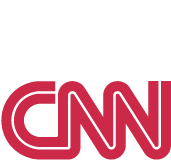
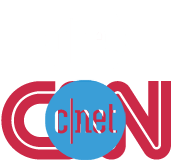
updated all sprites and links on press page

Changed region(s): [[0.2632, 0.5, 0.7602, 1.0]]

diff --git a/css/screen.css b/css/screen.css
@@ -1802,91 +1802,93 @@ img.progicons {
   text-align: left;
 }
 
+.press .cnn,
+.press .atlanticcities,
+.press .latimes,
+.press .usatoday,
+.press .pbs,
+.press .time,
+.press .cnet,
+.press .details,
+.press .globaljournal,
+.press .fastco {
+  height: 76px;
+  margin-bottom: 40px;
+}
+
+.press .cnn:hover,
+.press .atlanticcities:hover,
+.press .latimes:hover,
+.press .usatoday:hover,
+.press .pbs:hover,
+.press .time:hover,
+.press .cnet:hover,
+.press .details:hover,
+.press .globaljournal:hover,
+.press .fastco:hover  {
+  background-position: 0 -76px;
+}
+
 .press .cnn {
   background-image:url('../img/cnn.png');
   background-size: 86px;
   width: 86px;
 }
 
-.press .mashable {
-  background-image:url('../img/mashable.png');
-  background-size: 123px;
-  width: 123px;
+.press .atlanticcities{
+  background-image:url('../img/atlanticcities.png');
+  background-size: 183px;
+  width: 183px;
 }
 
-.press .motherjones {
-  background-image:url('../img/motherjones.png');
-  background-size: 139px;
-  width: 139px;
+.press .latimes {
+  background-image:url('../img/losangelestimes.png');
+  background-size: 640px;
+  width: 640px;
 }
 
-.press .npr {
-  background-image:url('../img/npr_logo_line.png');
-  background-size: 110px;
-  width: 110px;
-  margin-top: 28px;
+.press .usatoday {
+  background-image:url('../img/usatoday.png');
+  background-size: 162.5px;
+  width: 162.5px;
 }
 
-.press .wsj {
-  background-image:url('../img/wsj.png');
-  background-size: 226.5px;
-  width: 226.5px;
+.press .pbs {
+  background-image:url('../img/pbs.png');
+  background-size: 197px;
+  width: 197px;
 }
 
-.press .msnbc {
-  background-image:url('../img/msnbc.png');
-  background-size: 73px;
-  width: 73px;
-  height: 50px;
+.press .time {
+  background-image:url('../img/time.png');
+  background-size: 276px;
+  width: 276px;
 }
 
-.press .csm {
-  background-image:url('../img/csm.png');
-  background-size: 115px;
-  width: 115px;
+.press .cnet {
+  background-image:url('../img/cnet.png');
+  background-size: 103px;
+  width: 103px;
 }
 
-.press .techcrunch {
-  background-image:url('../img/techcrunch.png');
-  background-size: 165px;
-  width: 165px;
+.press .details {
+  background-image:url('../img/details.png');
+  background-size: 335px;
+  width: 335px;
 }
 
-.press .ted {
-  background-image:url('../img/ted.png');
-  background-size: 95px;
-  width: 95px;
+.press .globaljournal {
+  background-image:url('../img/globaljournal.png');
+  background-size: 299px;
+  width: 299px;
 }
 
-.press .sxsw {
-  background-image:url('../img/sxsw.png');
-  background-size: 167px;
-  width: 167px;
+.press .fastco {
+  background-image:url('../img/fastco.png');
+  background-size: 533px;
+  width: 533px;
 }
 
-.press .cnn,
-.press .mashable,
-.press .motherjones,
-.press .npr,
-.press .wsj,
-.press .csm,
-.press .techcrunch,
-.press .ted,
-.press .sxsw {
-  height: 40px;
-}
-
-.press .cnn:hover,
-.press .mashable:hover,
-.press .motherjones:hover,
-.press .npr:hover,
-.press .wsj:hover,
-.press .csm:hover,
-.press .techcrunch:hover,
-.press .ted:hover,
-.press .sxsw:hover {
-  background-position: 0 -40px;
-}
 
 .press .msnbc:hover {
   background-position: 0 -50px;

diff --git a/_posts/2013-01-13-press.html b/_posts/2013-01-13-press.html
@@ -11,21 +11,17 @@ section: people
 	<div class="row-fluid">
 		<div class="span12">
 
-		  <p>See what others had to say about us this year:</p>
-		  <a href="http://whatsnext.blogs.cnn.com/2012/10/02/jennifer-pahlka-proud-geek-keeper-of-chickens/" target="_blank"><div class="cnn"></div></a>
-		  <a href="http://mashable.com/2012/10/17/code-for-america-tech-government/" target="_blank"><div class="mashable"></div></a>
-		  <a href="http://www.motherjones.com/media/2012/05/code-for-america-jen-pahlka-interview" target="_blank"><div class="motherjones"></div></a>
-		  <a href="http://www.nbc.com/news-sports/msnbc-video/2012/09/digital-volunteers-take-over-city-hall-services/" target="_blank"><div class="msnbc"></div></a>
-		  <a href="http://www.kqed.org/a/forum/R201208311000" target="_blank"><div class="npr"></div></a>
-		  <a href="http://techcrunch.com/2012/11/03/the-20-most-innovative-people-in-democracy-2012/" target="_blank"><div class="techcrunch"></div></a>
-		  <a href="http://www.csmonitor.com/Business/Guide-to-Giving/2012/1117/A-Peace-Corps-for-geeks-Nonprofit-donates-apps-to-cities" target="_blank"><div class="csm"></div></a>
-		  <a href="http://online.wsj.com/article/SB10000872396390444270404577605622944527722.html" target="_blank"><div class="wsj"></div></a>
-
-    	<div class="keynotes">
-	    	<p>Watch two of Jennifer's public talks:</p>
-	    	<a href="http://codeforamerica.org/ted" target="_blank"><div class="ted"></div></a>
-	    	<a href="http://codeforamerica.org/2012/03/09/help-me-crowdsource-my-sxsw-talk/" target="_blank"><div class="sxsw"></div></a>
+		  <p>What others said about us in 2013:</p>
+		  <br>
+		  <a href="http://www.theatlanticcities.com/technology/2014/01/what-really-happens-when-you-sign-food-stamps/8094/" target="_blank"><div class="atlanticcities"></div></a>
+		  <a href="http://www.latimes.com/local/columnone/la-me-c1-code-for-america-20130826-dto,0,400145.htmlstory" target="_blank"><div class="latimes"></div></a>
+		  <a href="http://www.usatoday.com/story/money/columnist/2013/06/23/baverman-columnist-entrepreneurs-startups/2445807/" target="_blank"><div class="usatoday"></div></a>
+		  <a href="http://www.pbs.org/newshour/bb/science/jan-june13/code_05-20.html" target="_blank"><div class="pbs"></div></a>
+		  <a href="http://www.time.com/time/subscriber/article/0,33009,2140202-1,00.html" target="_blank"><div class="time"></div></a>
+		  <a href="http://www.youtube.com/watch?v=tq4YQXt3gac" target="_blank"><div class="cnet"></div></a>
+		  <a href="http://www.details.com/culture-trends/critical-eye/201304/digital-mavericks?currentPage=5" target="_blank"><div class="details"></div></a>
+		  <a href="http://codeforamerica.org/2013/01/25/71/" target="_blank"><div class="globaljournal"></div></a>
+		  <a href="http://www.fastcoexist.com/1681581/know-your-bushwicks-from-your-bed-stuys-with-this-addictive-online-game" target="_blank"><div class="fastco"></div></a>
     	</div>
-    </div>
 	</div>
 </div>
